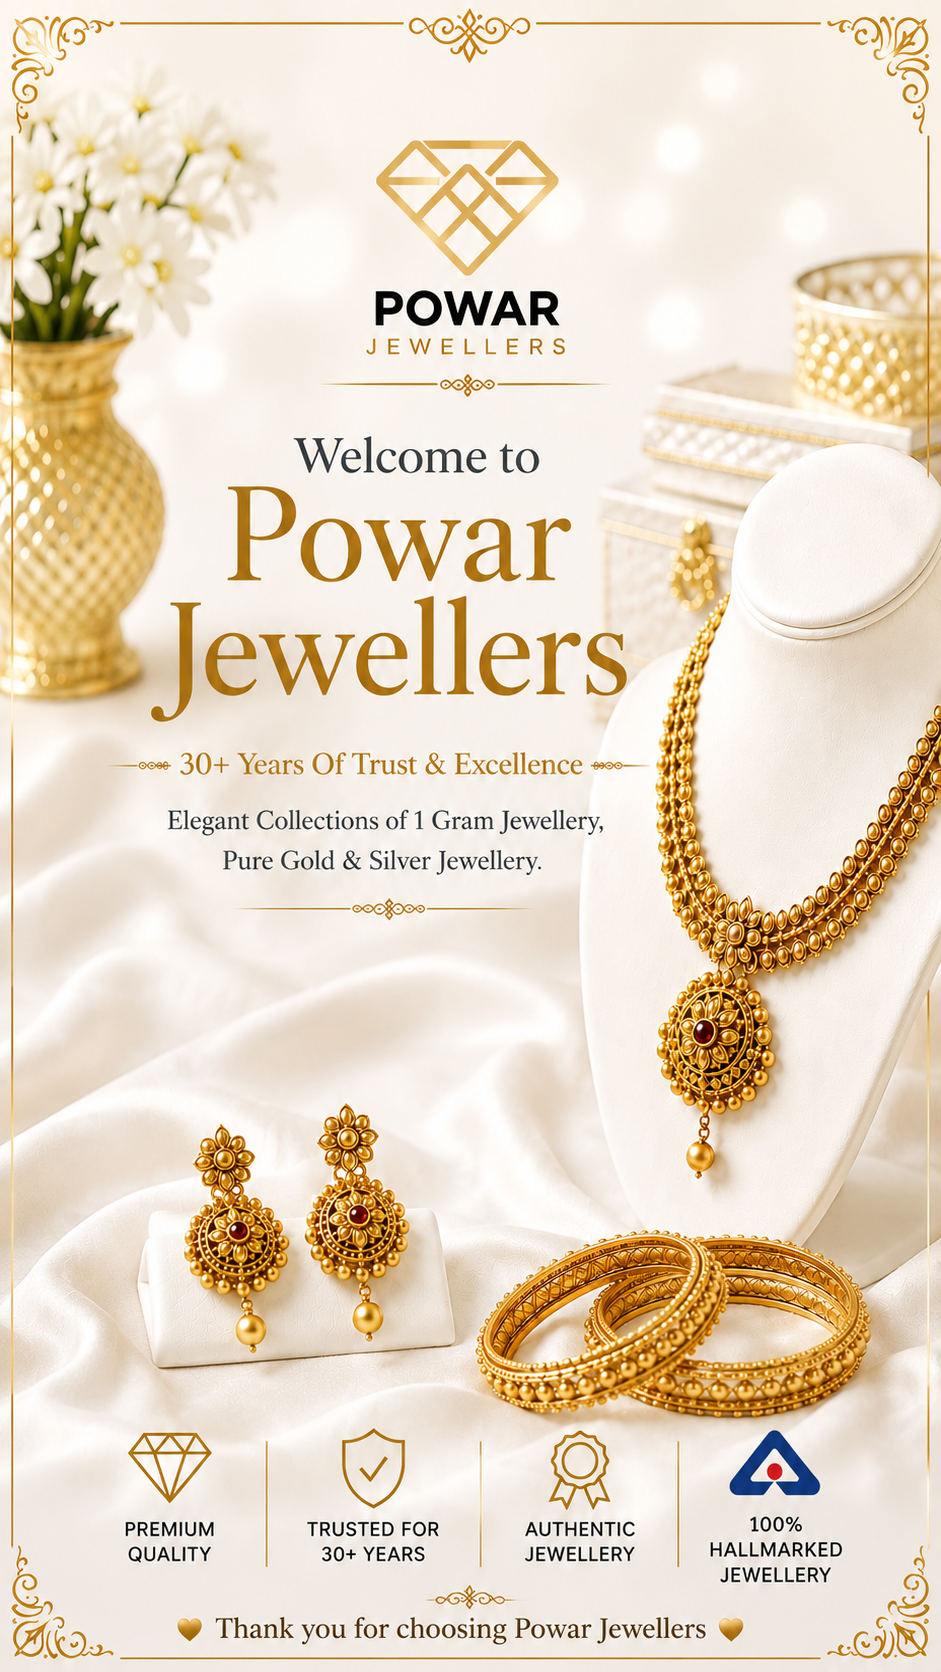
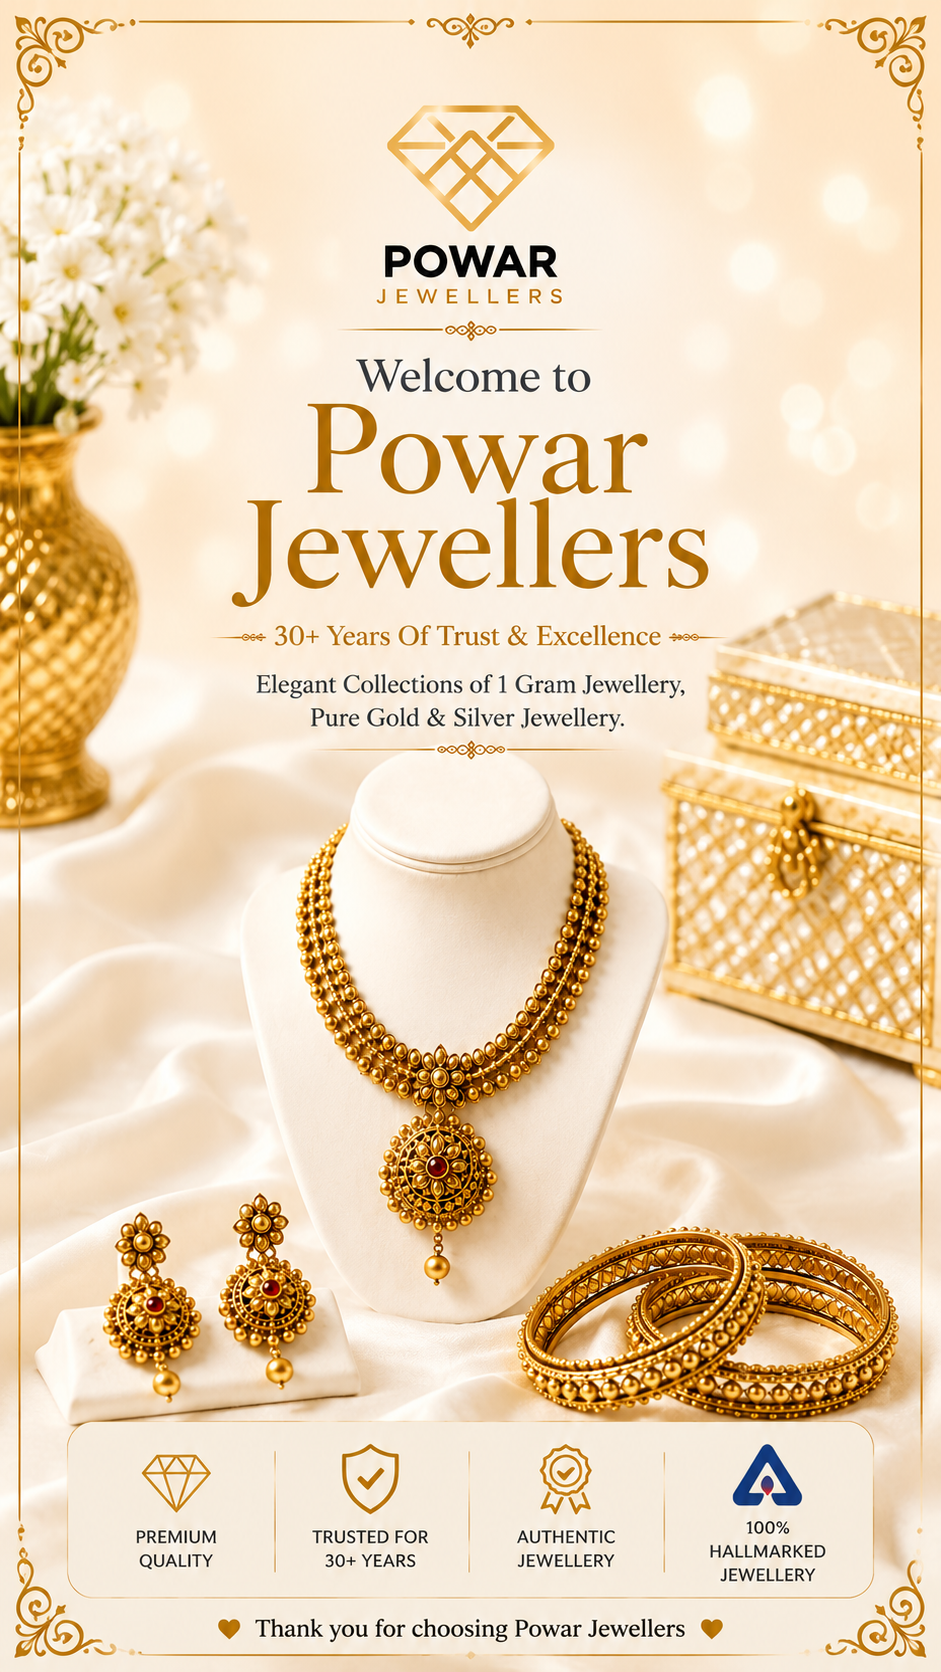
add mobile img responsible

diff --git a/style.css b/style.css
@@ -189,17 +189,13 @@ width: 100%;
 
 
 /* Mobile */
-@media (max-width:768px){
-
-    .hero{
-        min-height:100vh;
-        background-image:url("banner-image/banner-mobile.jpg");
-        background-size:cover;
-        background-position:center;
-        background-repeat:no-repeat;
-        padding:0;
+@media (max-width:768px) {
+    .hero {
+        background-image: url("banner-image/banner-mobile.jpg");
+        background-size: cover;
+        background-position: 35% center; /* try 30%, 35%, 40%, or 45% */
+        min-height: 100vh;
     }
-
 }
 
 .hero-content{
